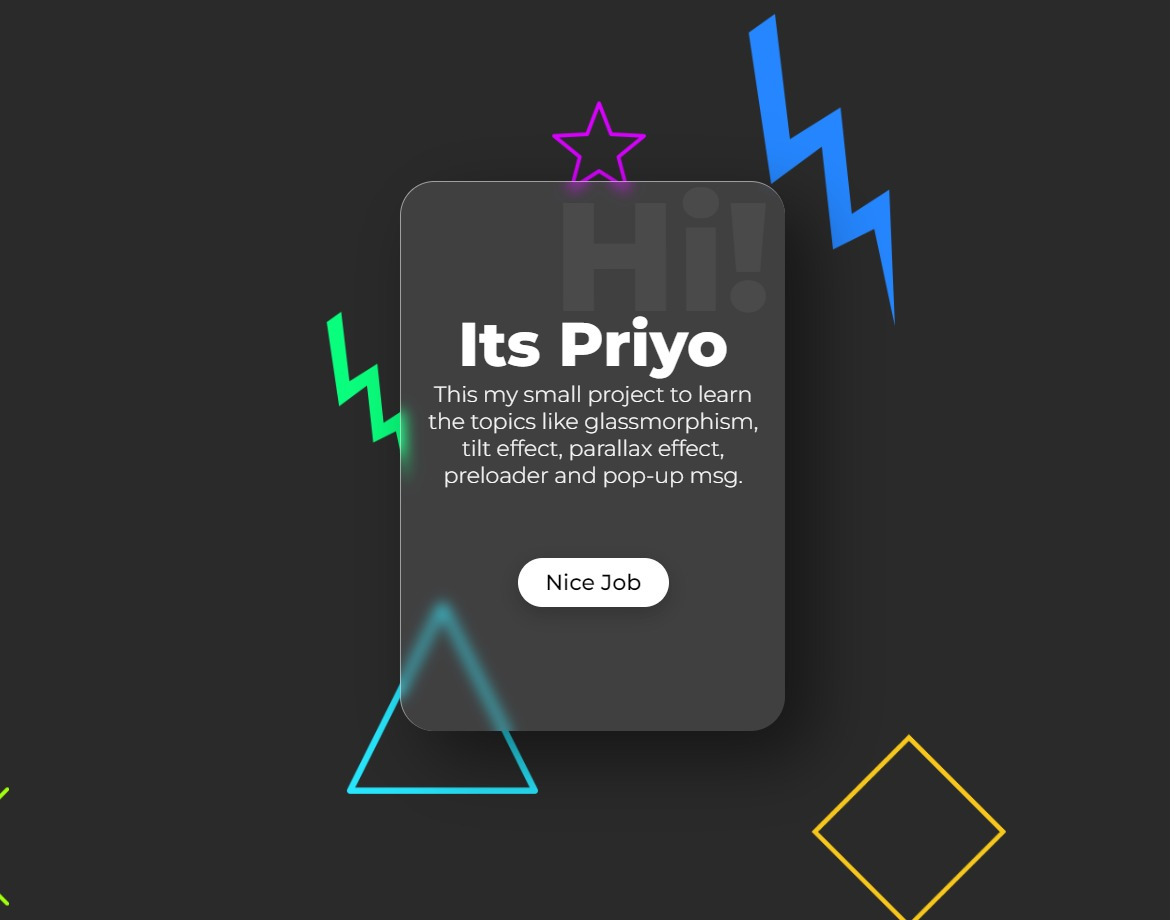
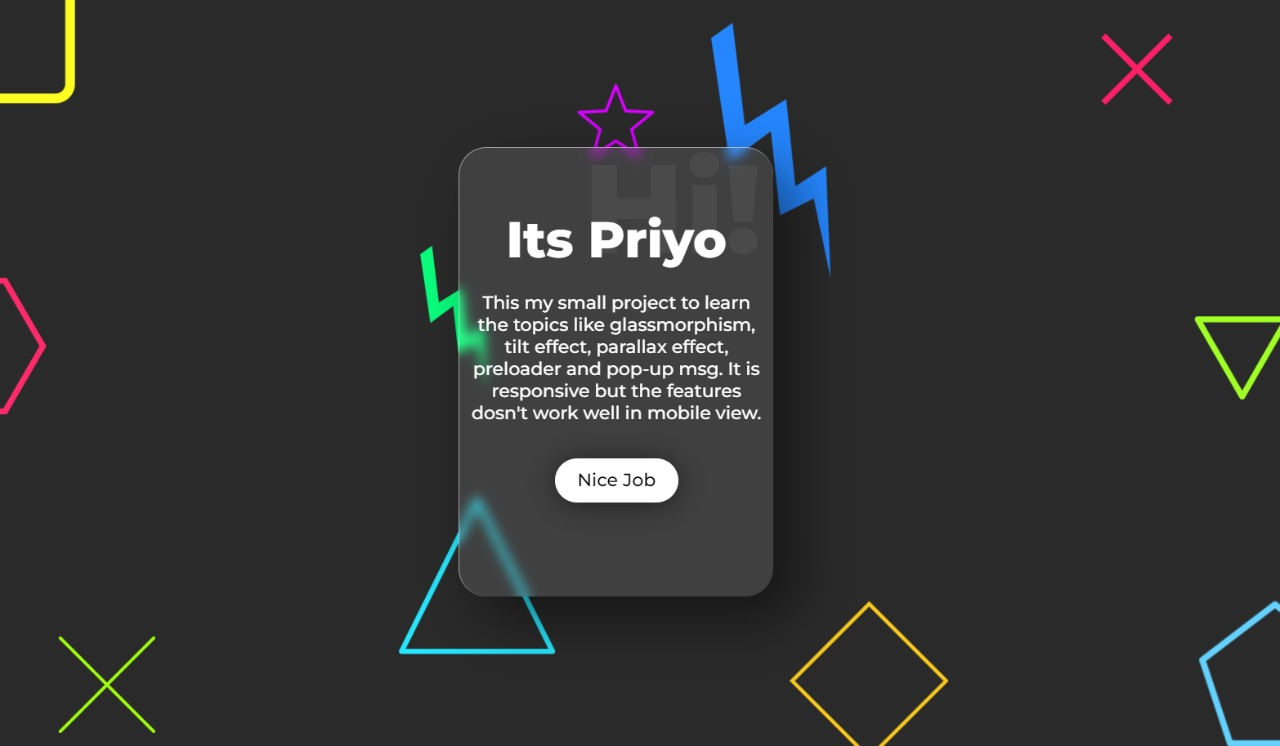
5:20pm
Changed the screenshot and also the color of some modules.

diff --git a/assets/style.css b/assets/style.css
@@ -150,19 +150,19 @@ section img {
   .bubbly-button:before {
     display: none;
     top: -75%;
-    background-image: radial-gradient(circle, #ff0081 20%, transparent 20%), radial-gradient(circle, transparent 20%, #ff0081 20%, transparent 30%), radial-gradient(circle, #ff0081 20%, transparent 20%), radial-gradient(circle, #ff0081 20%, transparent 20%), radial-gradient(circle, transparent 10%, #ff0081 15%, transparent 20%), radial-gradient(circle, #ff0081 20%, transparent 20%), radial-gradient(circle, #ff0081 20%, transparent 20%), radial-gradient(circle, #ff0081 20%, transparent 20%), radial-gradient(circle, #ff0081 20%, transparent 20%);
+    background-image: radial-gradient(circle, #fff 20%, transparent 20%), radial-gradient(circle, transparent 20%, #fff 20%, transparent 30%), radial-gradient(circle, #fff 20%, transparent 20%), radial-gradient(circle, #fff 20%, transparent 20%), radial-gradient(circle, transparent 10%, #fff 15%, transparent 20%), radial-gradient(circle, #fff 20%, transparent 20%), radial-gradient(circle, #fff 20%, transparent 20%), radial-gradient(circle, #fff 20%, transparent 20%), radial-gradient(circle, #fff 20%, transparent 20%);
     background-size: 10% 10%, 20% 20%, 15% 15%, 20% 20%, 18% 18%, 10% 10%, 15% 15%, 10% 10%, 18% 18%;
   }
   .bubbly-button:after {
     display: none;
     bottom: -75%;
-    background-image: radial-gradient(circle, #ff0081 20%, transparent 20%), radial-gradient(circle, #ff0081 20%, transparent 20%), radial-gradient(circle, transparent 10%, #ff0081 15%, transparent 20%), radial-gradient(circle, #ff0081 20%, transparent 20%), radial-gradient(circle, #ff0081 20%, transparent 20%), radial-gradient(circle, #ff0081 20%, transparent 20%), radial-gradient(circle, #ff0081 20%, transparent 20%);
+    background-image: radial-gradient(circle, #fff 20%, transparent 20%), radial-gradient(circle, #fff 20%, transparent 20%), radial-gradient(circle, transparent 10%, #fff 15%, transparent 20%), radial-gradient(circle, #fff 20%, transparent 20%), radial-gradient(circle, #fff 20%, transparent 20%), radial-gradient(circle, #fff 20%, transparent 20%), radial-gradient(circle, #fff 20%, transparent 20%);
     background-size: 15% 15%, 20% 20%, 18% 18%, 20% 20%, 15% 15%, 10% 10%, 20% 20%;
   }
   .bubbly-button:active {
     transform: scale(0.9);
     background-color: #ffffff;
-    box-shadow: 0 2px 25px rgba(255, 0, 130, 0.2);
+    box-shadow: 0 2px 25px rgba(0, 0, 0, 0.75);
   }
   .bubbly-button.animate:before {
     display: block;
